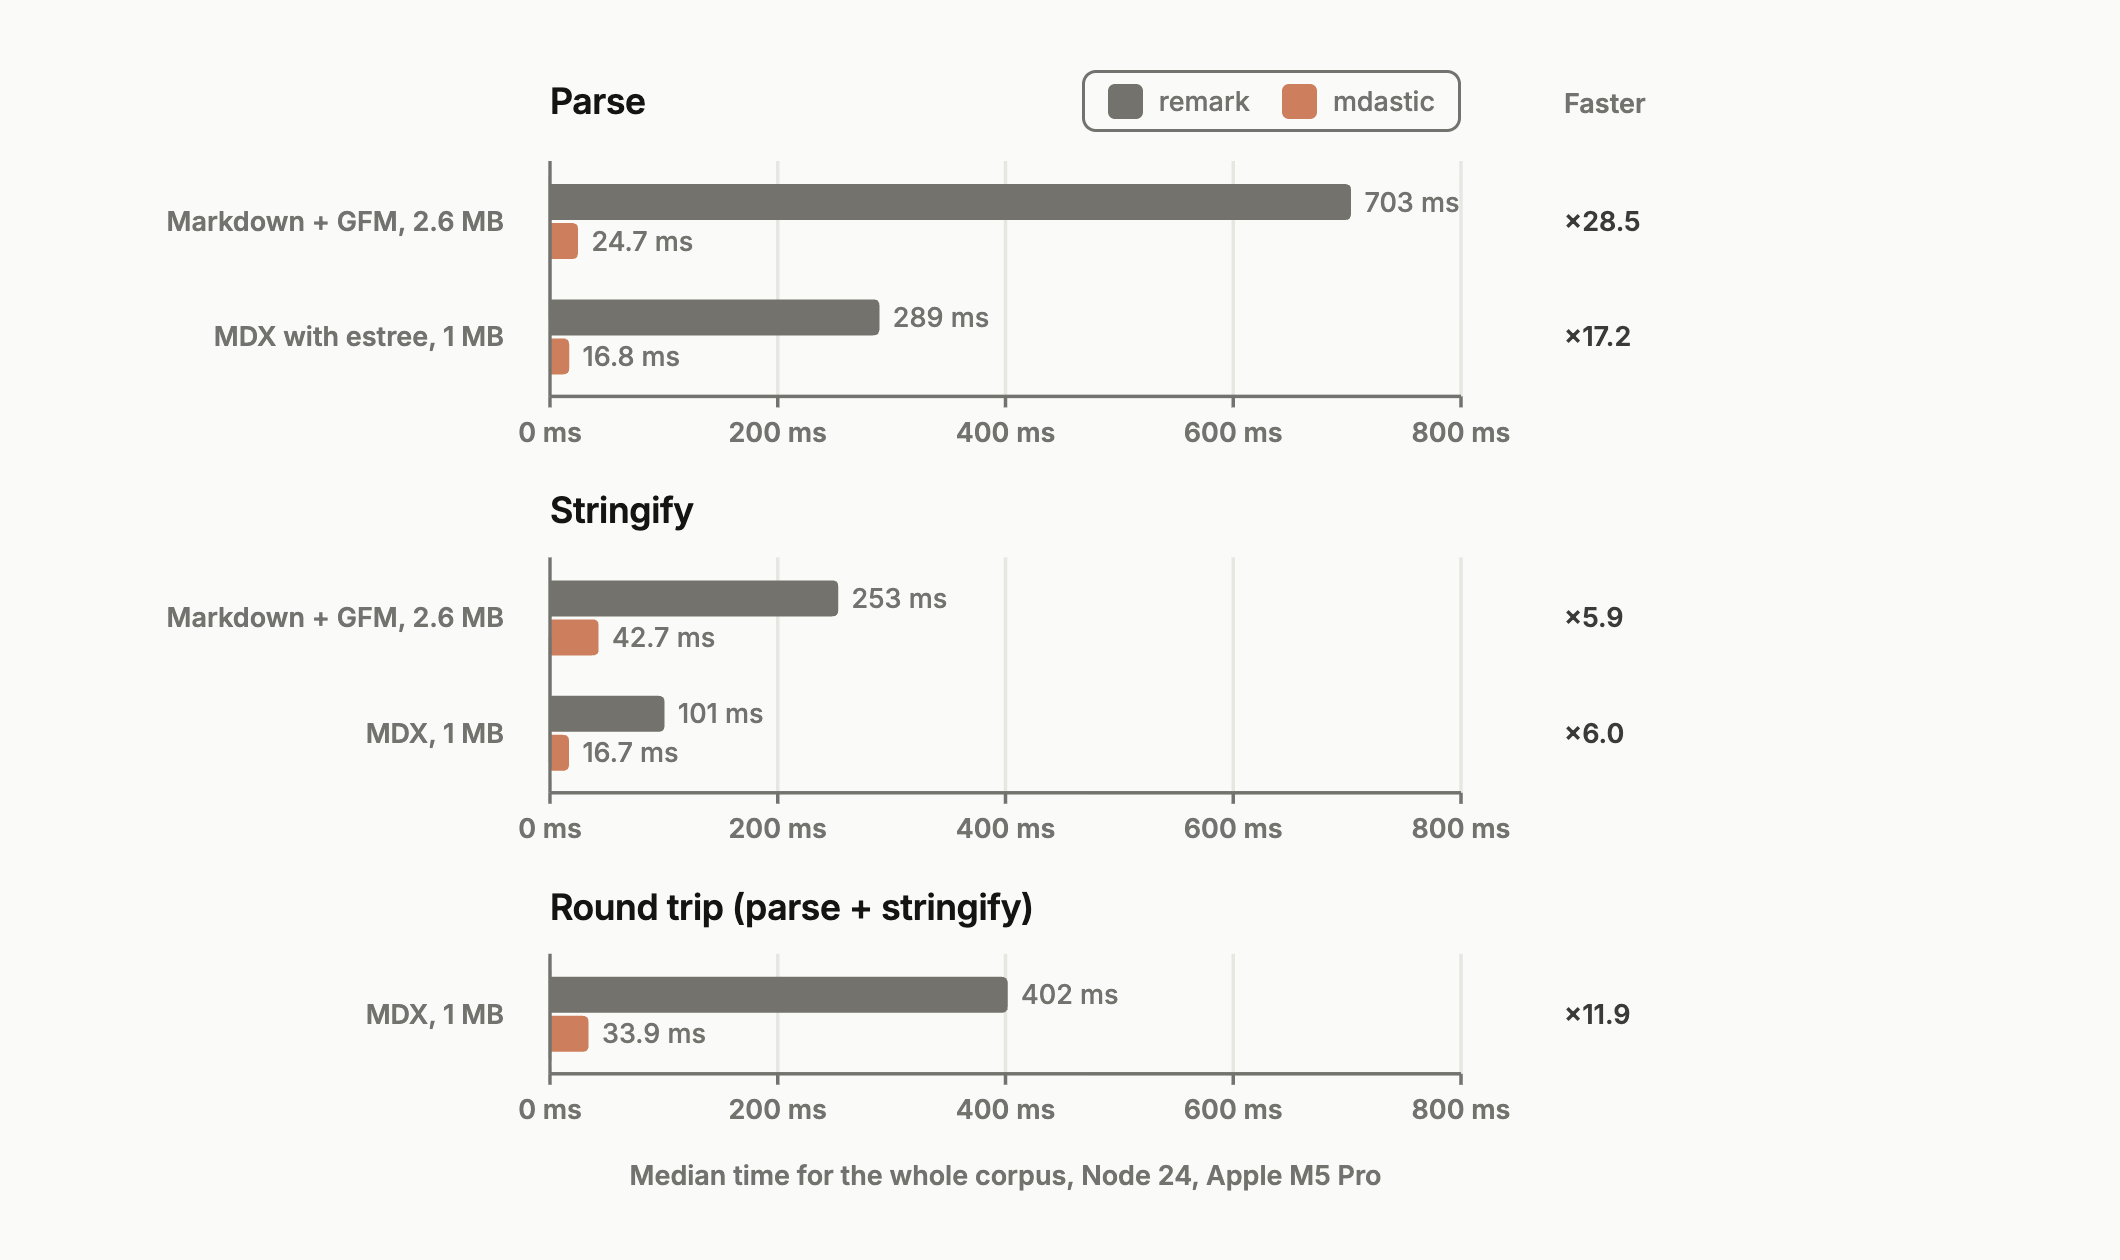
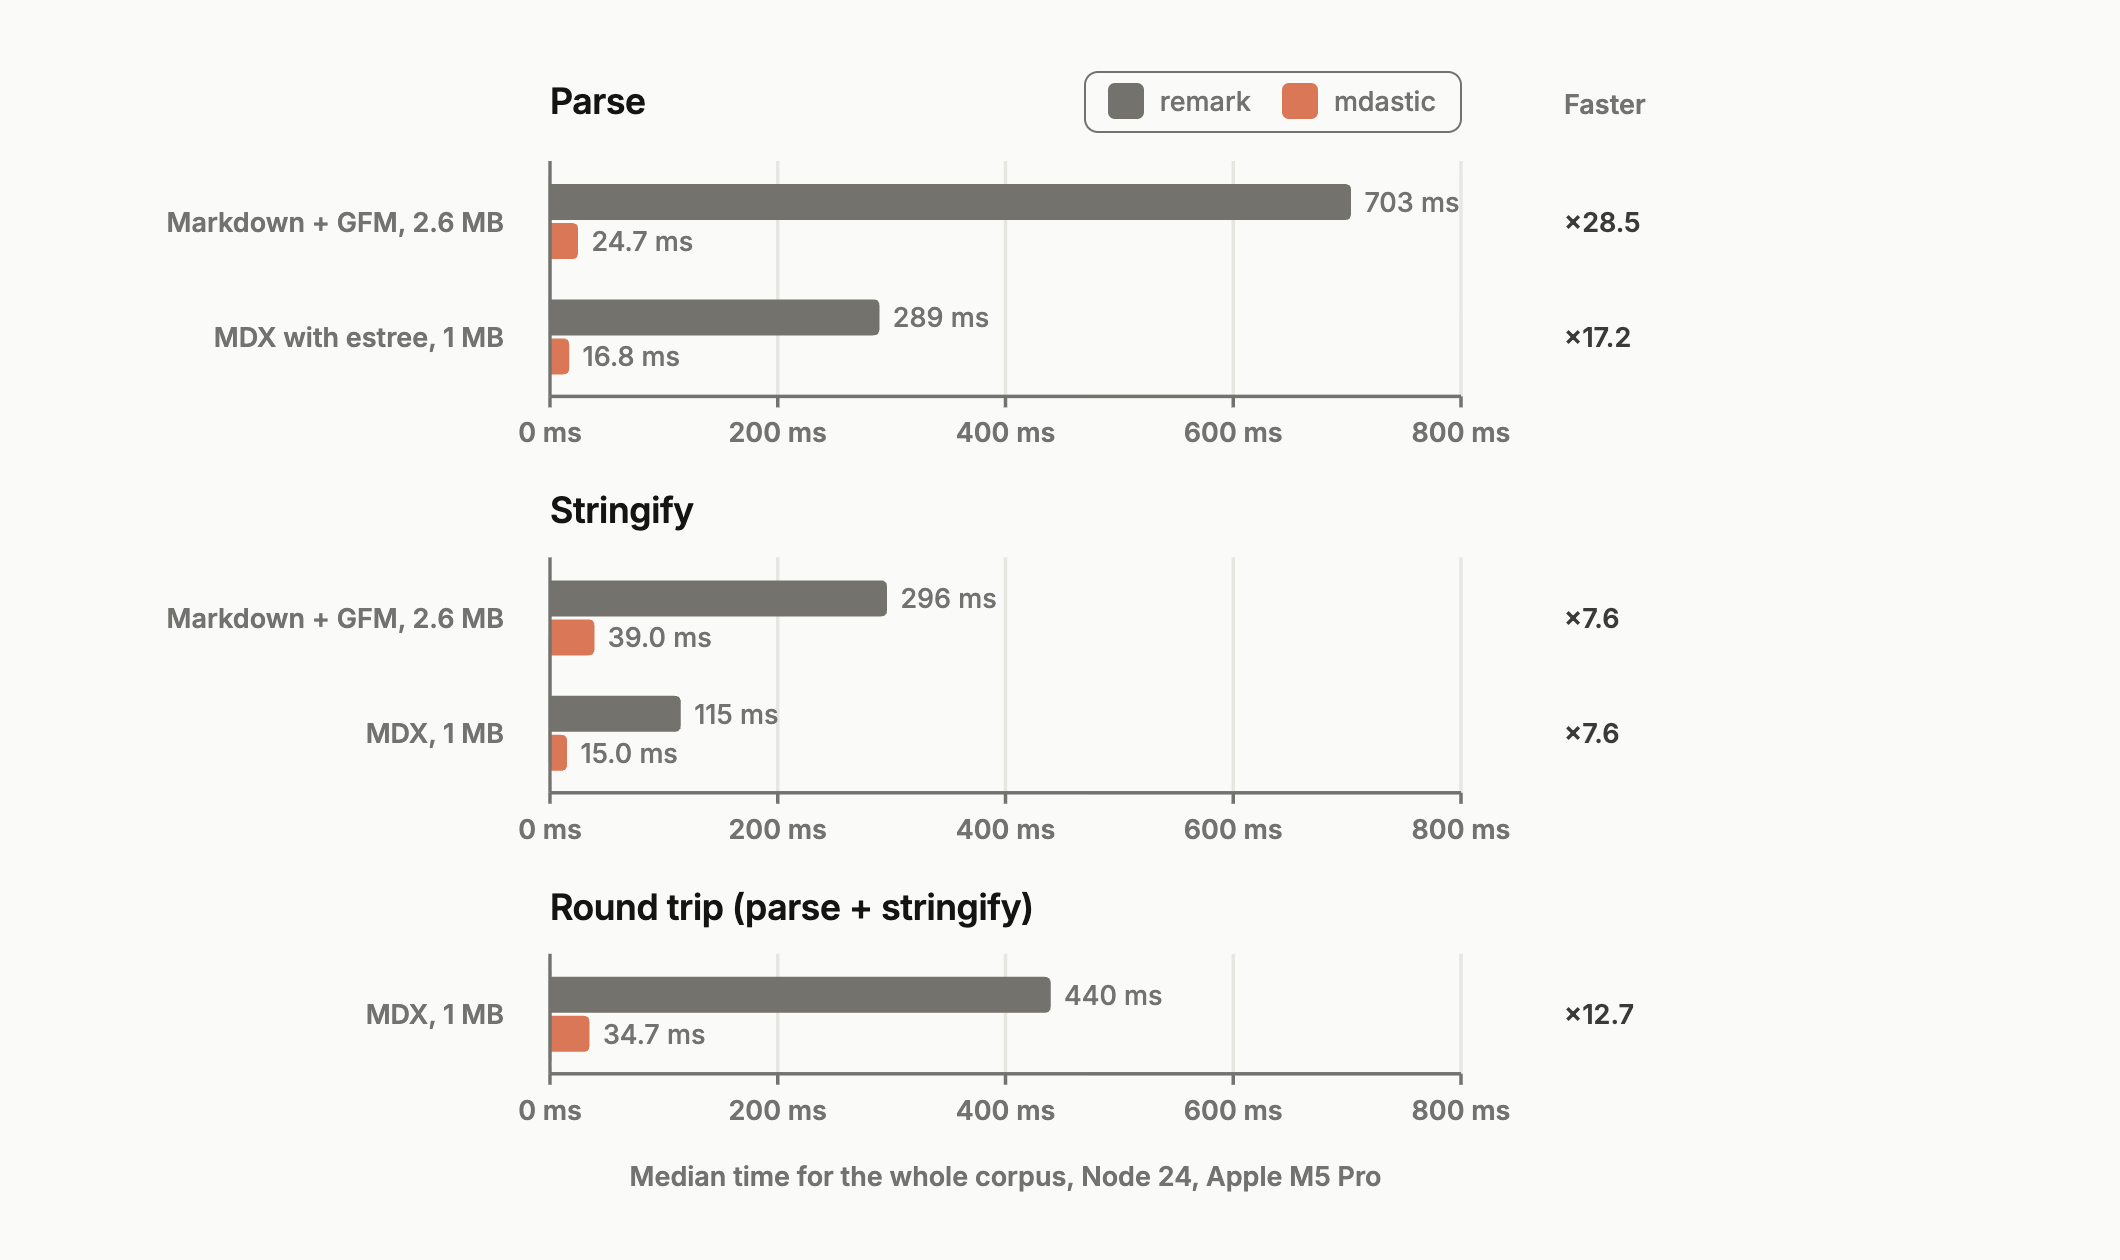
docs: update stringify benchmark against remark with to-markdown 2.2.3
The oracle moved to mdast-util-to-markdown 2.2.3, which is slower than 2.1.2, so the
remark column changed. mdastic stringify itself is unchanged (interleaved A/B against
0.5.1: 37.72 vs 37.70 ms markdown, 14.64 vs 14.99 ms MDX).

| Task                     | remark | mdastic | Faster |
| ------------------------ | -----: | ------: | -----: |
| Stringify markdown + GFM | 296 ms | 39.0 ms |   7.6x |
| Stringify MDX            | 115 ms | 15.0 ms |   7.6x |
| Round trip MDX           | 440 ms | 34.7 ms |  12.7x |

Also drops the stale "5.4x, not the 6x target" limit and re-renders the figure.

Discord: https://discord.com/channels/1422625037164351591/1572905835850506311

diff --git a/docs/figures/bench-vs-remark.html b/docs/figures/bench-vs-remark.html
@@ -31,8 +31,8 @@
             ticks: [0, 200, 400, 600, 800],
             unit: ms,
             rows: [
-              { label: 'Markdown + GFM, 2.6 MB', values: [253.1, 42.7], text: ['253 ms', '42.7 ms'], ratio: '×5.9' },
-              { label: 'MDX, 1 MB', values: [100.6, 16.68], text: ['101 ms', '16.7 ms'], ratio: '×6.0' },
+              { label: 'Markdown + GFM, 2.6 MB', values: [295.93, 39.03], text: ['296 ms', '39.0 ms'], ratio: '×7.6' },
+              { label: 'MDX, 1 MB', values: [114.83, 15.02], text: ['115 ms', '15.0 ms'], ratio: '×7.6' },
             ],
           },
           {
@@ -41,7 +41,7 @@
             ticks: [0, 200, 400, 600, 800],
             unit: ms,
             rows: [
-              { label: 'MDX, 1 MB', values: [401.95, 33.89], text: ['402 ms', '33.9 ms'], ratio: '×11.9' },
+              { label: 'MDX, 1 MB', values: [439.64, 34.72], text: ['440 ms', '34.7 ms'], ratio: '×12.7' },
             ],
           },
         ],

diff --git a/AGENTS.md b/AGENTS.md
@@ -17,7 +17,7 @@ only after parity. Read this file top to bottom before changing `mdastic/src/`.
 - **Exact parity** with `mdast-util-from-markdown` + `micromark-extension-{gfm,mdxjs,frontmatter}`
   for parsing, and with `mdast-util-to-markdown` + `{gfm,mdx,frontmatter}ToMarkdown` for stringify.
   Not "close enough": deep equal JSON, including every `position` and acorn `data.estree`.
-- **Speed.** Real-document benchmark: 28x faster than remark on markdown, 17x on MDX, 6x on
+- **Speed.** Real-document benchmark: 28x faster than remark on markdown, 17x on MDX, 7x on
   stringify. Faster than markdown-it (which builds no tree), about 1.2x behind native Sätteri.
 - **Replace remark** in three of Tommy's projects:
 
@@ -329,8 +329,8 @@ remark accepts, 1 MB), median of 15 runs after warmup. Last numbers on an M5 Pro
 | --- | ---: | ---: |
 | Parse markdown + GFM | 703 ms | 24.7 ms |
 | Parse MDX with estree | 289 ms | 16.8 ms |
-| Stringify markdown + GFM | 253 ms | 42.7 ms |
-| Round trip MDX | 402 ms | 33.9 ms |
+| Stringify markdown + GFM | 296 ms | 39.0 ms |
+| Round trip MDX | 440 ms | 34.7 ms |
 
 Profile with `node --cpu-prof --cpu-prof-dir=tmp/profiles --import tsx <script>`, then
 `profano tmp/profiles/*.cpuprofile`. Host load moves numbers a few percent; rerun before
@@ -350,7 +350,6 @@ acorn was not dominant, so a hand-written JS brace scanner was never built.
   nested brackets, `![[]()`. See `docs/test-suites.md` for the full table.
 - **Allocation is not minimal.** Line and container views are objects, regex searches allocate
   match arrays, some strings decode before materialization, acorn allocates tokens.
-- **Stringify is 5.4x, not the 6x target.**
 - **Source vs dist.** The harness imports `mdastic/src`, but `heading-id.test.ts` and
   `remark.test.ts` import the built `mdastic`, so build before vitest. `const enum` inlines
   under `tsc` but not under isolated esbuild/tsx transforms, so benchmarks run slightly

diff --git a/README.md b/README.md
@@ -30,7 +30,7 @@ const markdown = stringify(tree, { syntax }) // same string as remark-stringify
 ## Features
 
 - **Exact remark output.** 9,854 of 9,854 conformance fixtures match the real remark stack, including positions and estree.
-- **Fast.** 28x faster than remark on markdown, 17x on MDX, 6x on stringify. Faster than markdown-it, close to native Rust.
+- **Fast.** 28x faster than remark on markdown, 17x on MDX, 7x on stringify. Faster than markdown-it, close to native Rust.
 - **One syntax list.** The same `syntax` array drives `parse` and `stringify`, and `createProcessor` holds it with your transforms. No separate micromark, from-markdown and to-markdown extension arrays.
 - **MDX built in.** JSX, ESM and `{expressions}` with `data.estree`. Only `mdastic/mdx` imports Acorn, so plain markdown bundles stay small.
 - **Streaming parsing.** `createStreamParser()` parses LLM output as it arrives. Closed blocks are not parsed again and keep object identity, and every result still equals `parse(text)`.
@@ -57,9 +57,9 @@ Real documents, each parsed on its own, like a docs site build. 342 markdown doc
 | --- | ---: | ---: | ---: |
 | Parse markdown + GFM | 703 ms | **24.7 ms** | 28.5x |
 | Parse MDX with estree | 289 ms | **16.8 ms** | 17.2x |
-| Stringify markdown + GFM | 253 ms | **42.7 ms** | 5.9x |
-| Stringify MDX | 101 ms | **16.7 ms** | 6.0x |
-| Round trip MDX | 402 ms | **33.9 ms** | 11.9x |
+| Stringify markdown + GFM | 296 ms | **39.0 ms** | 7.6x |
+| Stringify MDX | 115 ms | **15.0 ms** | 7.6x |
+| Round trip MDX | 440 ms | **34.7 ms** | 12.7x |
 
 ### Against other fast parsers
 
